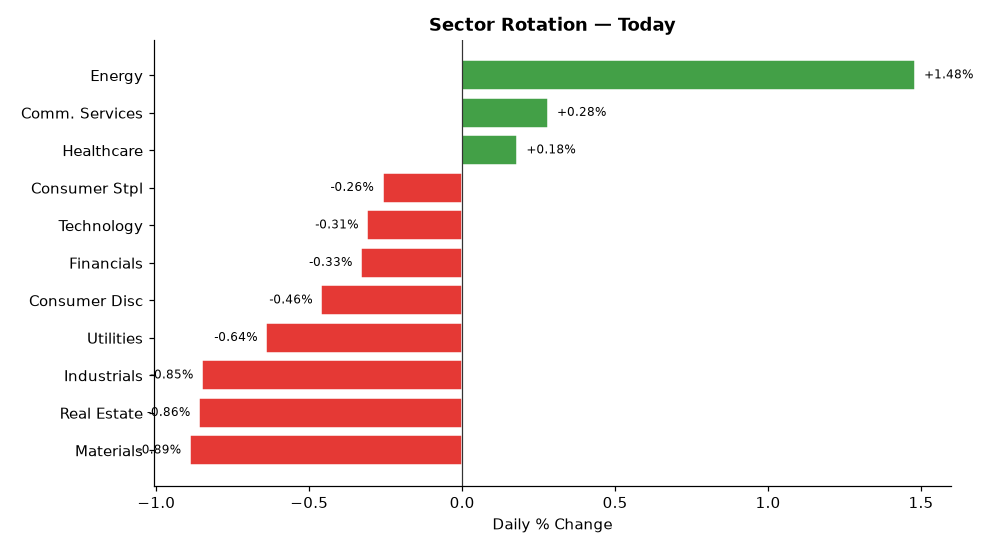
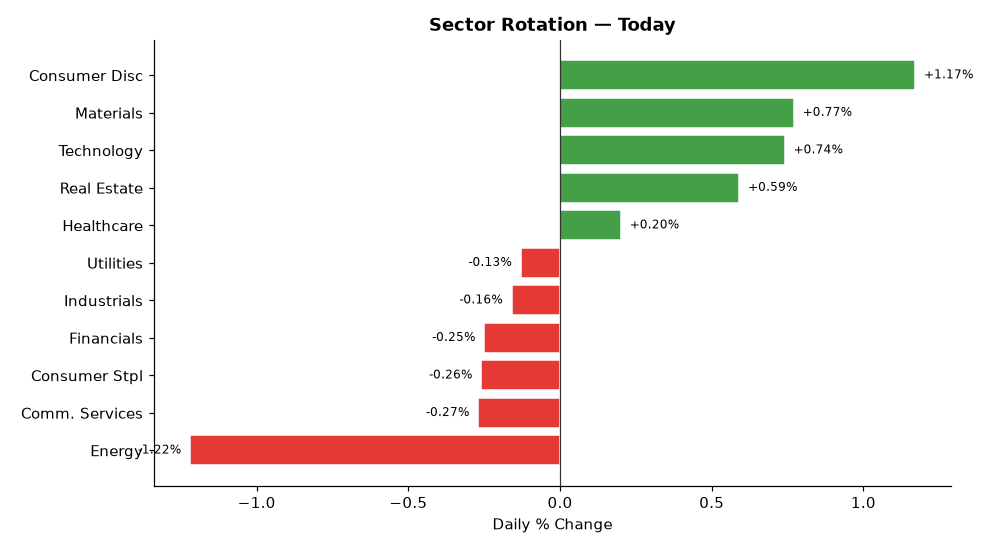
deploy: b7fadf5b06deb90e7ebb92f278722414bdd9750d

diff --git a/index.html b/index.html
@@ -4,7 +4,7 @@
   <meta charset="UTF-8">
   <meta name="viewport" content="width=device-width,initial-scale=1">
   <meta http-equiv="Cache-Control" content="no-cache,no-store,must-revalidate">
-  <title>Stock Breakout Screener — 2026-08-07 02:52</title>
+  <title>Stock Breakout Screener — 2026-08-07 14:09</title>
   <style>
     *{box-sizing:border-box;margin:0;padding:0}
     body{font-family:'Segoe UI',Arial,sans-serif;background:#f0f2f5;
@@ -34,20 +34,20 @@
 
 <div class="hdr">
   <h1>📈 Stock Breakout Screener</h1>
-  <p>Updated: 2026-08-07 02:52 UTC &nbsp;·&nbsp; Phase: Overnight &nbsp;·&nbsp;
+  <p>Updated: 2026-08-07 14:09 UTC &nbsp;·&nbsp; Phase: Regular Market Hours &nbsp;·&nbsp;
      129 stocks screened &nbsp;·&nbsp; Top 5 by conviction score</p>
 </div>
 
 <div class="card">
   <strong style="font-size:14px">Market Sentiment: 🐻 Bearish</strong>
   <div class="bar-wrap" style="margin-top:10px">
-    <div style="width:0%;background:#43a047"></div>
-    <div style="width:8%;background:#fdd835"></div>
+    <div style="width:2%;background:#43a047"></div>
+    <div style="width:6%;background:#fdd835"></div>
     <div style="width:92%;background:#e53935"></div>
   </div>
   <div style="font-size:12px;color:#555">
-    🟢 Strong 0% &nbsp;
-    🟡 Moderate 8% &nbsp;
+    🟢 Strong 2% &nbsp;
+    🟡 Moderate 6% &nbsp;
     🔴 Weak 92%
   </div>
 </div>
@@ -59,34 +59,34 @@
                     box-shadow:0 2px 6px rgba(0,0,0,.07)">
           <div style="display:flex;align-items:center;gap:10px;
                       flex-wrap:wrap;margin-bottom:10px">
-            <span style="font-size:22px">🟡</span>
-            <span style="font-size:19px;font-weight:700">1. BKR</span>
-            <span style="font-size:12px;color:#666">Energy</span>
+            <span style="font-size:22px">🟢</span>
+            <span style="font-size:19px;font-weight:700">1. TJX</span>
+            <span style="font-size:12px;color:#666">Consumer Disc</span>
             <span style="margin-left:auto;background:#1a237e;color:#fff;
                          padding:3px 12px;border-radius:12px;
                          font-size:13px;font-weight:600">
-              11/17
+              12/17
             </span>
           </div>
           <ul style="margin:0;padding-left:18px;font-size:13px;
-                     color:#333;line-height:1.8"><li style="margin:5px 0"><span style="background:#ffebee;color:#b71c1c;padding:2px 7px;border-radius:4px;font-size:11px;">❌</span> Volume: <b>0.5× average</b> — Above-average activity</li><li style="margin:5px 0"><span style="background:#ffebee;color:#b71c1c;padding:2px 7px;border-radius:4px;font-size:11px;">❌</span> Candle: close <b>$62.75</b> vs open <b>$62.49</b> (+0.4%) — regular market close</li><li style="margin:5px 0"><span style="background:#e8f5e9;color:#2e7d32;padding:2px 7px;border-radius:4px;font-size:11px;">✅</span> 200-Day MA: price <b>$62.75</b> vs MA <b>$61.29</b> — <b>✅ Above</b> long-term trend</li><li style="margin:5px 0"><span style="background:#e8f5e9;color:#2e7d32;padding:2px 7px;border-radius:4px;font-size:11px;">✅</span> Inst. ownership: <b>100.2%</b> · MFI: <b>74.7</b> · Market cap: <b>$62.3B</b></li></ul>
+                     color:#333;line-height:1.8"><li style="margin:5px 0"><span style="background:#fffde7;color:#f57f17;padding:2px 7px;border-radius:4px;font-size:11px;">⚠</span> Volume: <b>1.3× average</b> — Above-average activity</li><li style="margin:5px 0"><span style="background:#ffebee;color:#b71c1c;padding:2px 7px;border-radius:4px;font-size:11px;">❌</span> Candle: close <b>$162.06</b> vs open <b>$161.85</b> (+0.1%) — regular market close</li><li style="margin:5px 0"><span style="background:#e8f5e9;color:#2e7d32;padding:2px 7px;border-radius:4px;font-size:11px;">✅</span> 200-Day MA: price <b>$162.06</b> vs MA <b>$156.93</b> — <b>✅ Above</b> long-term trend</li><li style="margin:5px 0"><span style="background:#e8f5e9;color:#2e7d32;padding:2px 7px;border-radius:4px;font-size:11px;">✅</span> Inst. ownership: <b>93.4%</b> · MFI: <b>61.5</b> · Market cap: <b>$177.7B</b></li></ul>
         </div>
         <div style="background:#fff;border:1px solid #ddd;border-radius:10px;
                     padding:16px 20px;margin-bottom:12px;
                     box-shadow:0 2px 6px rgba(0,0,0,.07)">
           <div style="display:flex;align-items:center;gap:10px;
                       flex-wrap:wrap;margin-bottom:10px">
-            <span style="font-size:22px">🟡</span>
-            <span style="font-size:19px;font-weight:700">2. PSX</span>
-            <span style="font-size:12px;color:#666">Energy</span>
+            <span style="font-size:22px">🟢</span>
+            <span style="font-size:19px;font-weight:700">2. EBAY</span>
+            <span style="font-size:12px;color:#666">Consumer Disc</span>
             <span style="margin-left:auto;background:#1a237e;color:#fff;
                          padding:3px 12px;border-radius:12px;
                          font-size:13px;font-weight:600">
-              11/17
+              12/17
             </span>
           </div>
           <ul style="margin:0;padding-left:18px;font-size:13px;
-                     color:#333;line-height:1.8"><li style="margin:5px 0"><span style="background:#ffebee;color:#b71c1c;padding:2px 7px;border-radius:4px;font-size:11px;">❌</span> Volume: <b>0.6× average</b> — Above-average activity</li><li style="margin:5px 0"><span style="background:#ffebee;color:#b71c1c;padding:2px 7px;border-radius:4px;font-size:11px;">❌</span> Candle: close <b>$205.52</b> vs open <b>$208.97</b> (-1.7%) — regular market close</li><li style="margin:5px 0"><span style="background:#e8f5e9;color:#2e7d32;padding:2px 7px;border-radius:4px;font-size:11px;">✅</span> 200-Day MA: price <b>$205.52</b> vs MA <b>$175.53</b> — <b>✅ Above</b> long-term trend</li><li style="margin:5px 0"><span style="background:#e8f5e9;color:#2e7d32;padding:2px 7px;border-radius:4px;font-size:11px;">✅</span> Inst. ownership: <b>80.8%</b> · MFI: <b>62.8</b> · Market cap: <b>$82.4B</b></li></ul>
+                     color:#333;line-height:1.8"><li style="margin:5px 0"><span style="background:#fffde7;color:#f57f17;padding:2px 7px;border-radius:4px;font-size:11px;">⚠</span> Volume: <b>1.4× average</b> — Above-average activity</li><li style="margin:5px 0"><span style="background:#ffebee;color:#b71c1c;padding:2px 7px;border-radius:4px;font-size:11px;">❌</span> Candle: close <b>$110.14</b> vs open <b>$112.00</b> (-1.7%) — regular market close</li><li style="margin:5px 0"><span style="background:#e8f5e9;color:#2e7d32;padding:2px 7px;border-radius:4px;font-size:11px;">✅</span> 200-Day MA: price <b>$110.14</b> vs MA <b>$102.58</b> — <b>✅ Above</b> long-term trend</li><li style="margin:5px 0"><span style="background:#e8f5e9;color:#2e7d32;padding:2px 7px;border-radius:4px;font-size:11px;">✅</span> Inst. ownership: <b>94.5%</b> · MFI: <b>44.8</b> · Market cap: <b>$50.9B</b></li><li style="margin:5px 0"><span style="background:#e8f5e9;color:#2e7d32;padding:2px 7px;border-radius:4px;font-size:11px;">✅</span> Last similar breakout: <b>Apr 30, 2026</b> → <b>+9.4%</b> over 10 trading days</li></ul>
         </div>
         <div style="background:#fff;border:1px solid #ddd;border-radius:10px;
                     padding:16px 20px;margin-bottom:12px;
@@ -99,11 +99,11 @@
             <span style="margin-left:auto;background:#1a237e;color:#fff;
                          padding:3px 12px;border-radius:12px;
                          font-size:13px;font-weight:600">
-              10/17
+              11/17
             </span>
           </div>
           <ul style="margin:0;padding-left:18px;font-size:13px;
-                     color:#333;line-height:1.8"><li style="margin:5px 0"><span style="background:#ffebee;color:#b71c1c;padding:2px 7px;border-radius:4px;font-size:11px;">❌</span> Volume: <b>0.9× average</b> — Above-average activity</li><li style="margin:5px 0"><span style="background:#ffebee;color:#b71c1c;padding:2px 7px;border-radius:4px;font-size:11px;">❌</span> Candle: close <b>$499.86</b> vs open <b>$488.89</b> (+2.2%) — regular market close</li><li style="margin:5px 0"><span style="background:#e8f5e9;color:#2e7d32;padding:2px 7px;border-radius:4px;font-size:11px;">✅</span> 200-Day MA: price <b>$499.86</b> vs MA <b>$402.24</b> — <b>✅ Above</b> long-term trend</li><li style="margin:5px 0"><span style="background:#e8f5e9;color:#2e7d32;padding:2px 7px;border-radius:4px;font-size:11px;">✅</span> Inst. ownership: <b>75.4%</b> · MFI: <b>78.1</b> · Market cap: <b>$3711.7B</b></li><li style="margin:5px 0"><span style="background:#e8f5e9;color:#2e7d32;padding:2px 7px;border-radius:4px;font-size:11px;">✅</span> Last similar breakout: <b>Jul 30, 2026</b> → <b>+10.8%</b> over 10 trading days</li></ul>
+                     color:#333;line-height:1.8"><li style="margin:5px 0"><span style="background:#ffebee;color:#b71c1c;padding:2px 7px;border-radius:4px;font-size:11px;">❌</span> Volume: <b>1.0× average</b> — Above-average activity</li><li style="margin:5px 0"><span style="background:#ffebee;color:#b71c1c;padding:2px 7px;border-radius:4px;font-size:11px;">❌</span> Candle: close <b>$499.86</b> vs open <b>$488.55</b> (+2.3%) — regular market close</li><li style="margin:5px 0"><span style="background:#e8f5e9;color:#2e7d32;padding:2px 7px;border-radius:4px;font-size:11px;">✅</span> 200-Day MA: price <b>$499.86</b> vs MA <b>$403.04</b> — <b>✅ Above</b> long-term trend</li><li style="margin:5px 0"><span style="background:#e8f5e9;color:#2e7d32;padding:2px 7px;border-radius:4px;font-size:11px;">✅</span> Inst. ownership: <b>75.4%</b> · MFI: <b>77.5</b> · Market cap: <b>$3725.1B</b></li><li style="margin:5px 0"><span style="background:#e8f5e9;color:#2e7d32;padding:2px 7px;border-radius:4px;font-size:11px;">✅</span> Last similar breakout: <b>Jul 30, 2026</b> → <b>+11.2%</b> over 10 trading days</li></ul>
         </div>
         <div style="background:#fff;border:1px solid #ddd;border-radius:10px;
                     padding:16px 20px;margin-bottom:12px;
@@ -116,11 +116,11 @@
             <span style="margin-left:auto;background:#1a237e;color:#fff;
                          padding:3px 12px;border-radius:12px;
                          font-size:13px;font-weight:600">
-              10/17
+              11/17
             </span>
           </div>
           <ul style="margin:0;padding-left:18px;font-size:13px;
-                     color:#333;line-height:1.8"><li style="margin:5px 0"><span style="background:#ffebee;color:#b71c1c;padding:2px 7px;border-radius:4px;font-size:11px;">❌</span> Volume: <b>0.7× average</b> — Above-average activity</li><li style="margin:5px 0"><span style="background:#e8f5e9;color:#2e7d32;padding:2px 7px;border-radius:4px;font-size:11px;">✅</span> Candle: close <b>$489.28</b> vs open <b>$471.14</b> (+3.8%) — regular market close</li><li style="margin:5px 0"><span style="background:#e8f5e9;color:#2e7d32;padding:2px 7px;border-radius:4px;font-size:11px;">✅</span> 200-Day MA: price <b>$489.28</b> vs MA <b>$371.45</b> — <b>✅ Above</b> long-term trend</li><li style="margin:5px 0"><span style="background:#e8f5e9;color:#2e7d32;padding:2px 7px;border-radius:4px;font-size:11px;">✅</span> Inst. ownership: <b>71.8%</b> · MFI: <b>44.1</b> · Market cap: <b>N/A</b></li><li style="margin:5px 0"><span style="background:#e8f5e9;color:#2e7d32;padding:2px 7px;border-radius:4px;font-size:11px;">✅</span> Last similar breakout: <b>Apr 24, 2026</b> → <b>+30.9%</b> over 10 trading days</li></ul>
+                     color:#333;line-height:1.8"><li style="margin:5px 0"><span style="background:#ffebee;color:#b71c1c;padding:2px 7px;border-radius:4px;font-size:11px;">❌</span> Volume: <b>0.7× average</b> — Above-average activity</li><li style="margin:5px 0"><span style="background:#e8f5e9;color:#2e7d32;padding:2px 7px;border-radius:4px;font-size:11px;">✅</span> Candle: close <b>$489.28</b> vs open <b>$471.75</b> (+3.7%) — regular market close</li><li style="margin:5px 0"><span style="background:#e8f5e9;color:#2e7d32;padding:2px 7px;border-radius:4px;font-size:11px;">✅</span> 200-Day MA: price <b>$489.28</b> vs MA <b>$372.36</b> — <b>✅ Above</b> long-term trend</li><li style="margin:5px 0"><span style="background:#e8f5e9;color:#2e7d32;padding:2px 7px;border-radius:4px;font-size:11px;">✅</span> Inst. ownership: <b>71.7%</b> · MFI: <b>41.6</b> · Market cap: <b>$791.4B</b></li><li style="margin:5px 0"><span style="background:#e8f5e9;color:#2e7d32;padding:2px 7px;border-radius:4px;font-size:11px;">✅</span> Last similar breakout: <b>Apr 24, 2026</b> → <b>+30.9%</b> over 10 trading days</li></ul>
         </div>
         <div style="background:#fff;border:1px solid #ddd;border-radius:10px;
                     padding:16px 20px;margin-bottom:12px;
@@ -128,16 +128,16 @@
           <div style="display:flex;align-items:center;gap:10px;
                       flex-wrap:wrap;margin-bottom:10px">
             <span style="font-size:22px">🟡</span>
-            <span style="font-size:19px;font-weight:700">5. PH</span>
-            <span style="font-size:12px;color:#666">Industrials</span>
+            <span style="font-size:19px;font-weight:700">5. SBUX</span>
+            <span style="font-size:12px;color:#666">Consumer Disc</span>
             <span style="margin-left:auto;background:#1a237e;color:#fff;
                          padding:3px 12px;border-radius:12px;
                          font-size:13px;font-weight:600">
-              10/17
+              11/17
             </span>
           </div>
           <ul style="margin:0;padding-left:18px;font-size:13px;
-                     color:#333;line-height:1.8"><li style="margin:5px 0"><span style="background:#fffde7;color:#f57f17;padding:2px 7px;border-radius:4px;font-size:11px;">⚠</span> Volume: <b>1.7× average</b> — Above-average activity</li><li style="margin:5px 0"><span style="background:#fffde7;color:#f57f17;padding:2px 7px;border-radius:4px;font-size:11px;">⚠</span> Candle: close <b>$1069.80</b> vs open <b>$1076.00</b> (-0.6%) — regular market close</li><li style="margin:5px 0"><span style="background:#e8f5e9;color:#2e7d32;padding:2px 7px;border-radius:4px;font-size:11px;">✅</span> 200-Day MA: price <b>$1069.80</b> vs MA <b>$937.70</b> — <b>✅ Above</b> long-term trend</li><li style="margin:5px 0"><span style="background:#e8f5e9;color:#2e7d32;padding:2px 7px;border-radius:4px;font-size:11px;">✅</span> Inst. ownership: <b>90.7%</b> · MFI: <b>76.5</b> · Market cap: <b>$134.9B</b></li></ul>
+                     color:#333;line-height:1.8"><li style="margin:5px 0"><span style="background:#ffebee;color:#b71c1c;padding:2px 7px;border-radius:4px;font-size:11px;">❌</span> Volume: <b>0.8× average</b> — Above-average activity</li><li style="margin:5px 0"><span style="background:#ffebee;color:#b71c1c;padding:2px 7px;border-radius:4px;font-size:11px;">❌</span> Candle: close <b>$105.16</b> vs open <b>$106.14</b> (-0.9%) — regular market close</li><li style="margin:5px 0"><span style="background:#e8f5e9;color:#2e7d32;padding:2px 7px;border-radius:4px;font-size:11px;">✅</span> 200-Day MA: price <b>$105.16</b> vs MA <b>$99.89</b> — <b>✅ Above</b> long-term trend</li><li style="margin:5px 0"><span style="background:#e8f5e9;color:#2e7d32;padding:2px 7px;border-radius:4px;font-size:11px;">✅</span> Inst. ownership: <b>86.6%</b> · MFI: <b>57.7</b> · Market cap: <b>$120.1B</b></li><li style="margin:5px 0"><span style="background:#fffde7;color:#f57f17;padding:2px 7px;border-radius:4px;font-size:11px;">⚠</span> Last similar breakout: <b>Apr 29, 2026</b> → <b>+0.4%</b> over 10 trading days</li></ul>
         </div>
 
 
@@ -168,93 +168,93 @@
   
         <tr>
           <td style="font-weight:700;text-align:left;padding-left:10px">
-            🟡 BKR</td>
-          <td style="background:#ffcdd2">0.5×</td>
-          <td style="background:#ffcdd2">+0.4%</td>
+            🟢 TJX</td>
+          <td style="background:#fff9c4">1.3×</td>
+          <td style="background:#ffcdd2">+0.1%</td>
           <td style="background:#c8e6c9">
             ▲ Above</td>
           <td style="background:#c8e6c9">
-            100.2%</td>
+            93.4%</td>
           <td style="background:#c8e6c9">
-            74.7</td>
-          <td style="background:#c8e6c9">Energy</td>
+            61.5</td>
+          <td style="background:#c8e6c9">Consumer Disc</td>
           <td style="background:#c8e6c9">
-            81.2%</td>
+            126.1%</td>
           <td style="background:#ffcdd2">
             N/A</td>
-          <td style="font-weight:800;font-size:15px">11/17</td>
+          <td style="font-weight:800;font-size:15px">12/17</td>
         </tr>
         <tr>
           <td style="font-weight:700;text-align:left;padding-left:10px">
-            🟡 PSX</td>
-          <td style="background:#ffcdd2">0.6×</td>
+            🟢 EBAY</td>
+          <td style="background:#fff9c4">1.4×</td>
           <td style="background:#ffcdd2">-1.7%</td>
           <td style="background:#c8e6c9">
             ▲ Above</td>
           <td style="background:#c8e6c9">
-            80.8%</td>
-          <td style="background:#c8e6c9">
-            62.8</td>
-          <td style="background:#c8e6c9">Energy</td>
-          <td style="background:#c8e6c9">
-            117.2%</td>
+            94.5%</td>
           <td style="background:#ffcdd2">
-            N/A</td>
-          <td style="font-weight:800;font-size:15px">11/17</td>
+            44.8</td>
+          <td style="background:#c8e6c9">Consumer Disc</td>
+          <td style="background:#c8e6c9">
+            54.8%</td>
+          <td style="background:#c8e6c9">
+            +9.4%</td>
+          <td style="font-weight:800;font-size:15px">12/17</td>
         </tr>
         <tr>
           <td style="font-weight:700;text-align:left;padding-left:10px">
             🟡 MSFT</td>
-          <td style="background:#ffcdd2">0.9×</td>
-          <td style="background:#ffcdd2">+2.2%</td>
+          <td style="background:#ffcdd2">1.0×</td>
+          <td style="background:#ffcdd2">+2.3%</td>
           <td style="background:#c8e6c9">
             ▲ Above</td>
           <td style="background:#c8e6c9">
             75.4%</td>
           <td style="background:#c8e6c9">
-            78.1</td>
-          <td style="background:#ffcdd2">Technology</td>
+            77.5</td>
+          <td style="background:#fff9c4">Technology</td>
           <td style="background:#c8e6c9">
-            198.3%</td>
+            279.9%</td>
           <td style="background:#c8e6c9">
-            +10.8%</td>
-          <td style="font-weight:800;font-size:15px">10/17</td>
+            +11.2%</td>
+          <td style="font-weight:800;font-size:15px">11/17</td>
         </tr>
         <tr>
           <td style="font-weight:700;text-align:left;padding-left:10px">
             🟡 AMD</td>
           <td style="background:#ffcdd2">0.7×</td>
-          <td style="background:#c8e6c9">+3.8%</td>
+          <td style="background:#c8e6c9">+3.7%</td>
           <td style="background:#c8e6c9">
             ▲ Above</td>
           <td style="background:#c8e6c9">
-            71.8%</td>
+            71.7%</td>
           <td style="background:#ffcdd2">
-            44.1</td>
-          <td style="background:#ffcdd2">Technology</td>
+            41.6</td>
+          <td style="background:#fff9c4">Technology</td>
           <td style="background:#c8e6c9">
-            330.3%</td>
+            416.9%</td>
           <td style="background:#c8e6c9">
             +30.9%</td>
-          <td style="font-weight:800;font-size:15px">10/17</td>
+          <td style="font-weight:800;font-size:15px">11/17</td>
         </tr>
         <tr>
           <td style="font-weight:700;text-align:left;padding-left:10px">
-            🟡 PH</td>
-          <td style="background:#fff9c4">1.7×</td>
-          <td style="background:#fff9c4">-0.6%</td>
+            🟡 SBUX</td>
+          <td style="background:#ffcdd2">0.8×</td>
+          <td style="background:#ffcdd2">-0.9%</td>
           <td style="background:#c8e6c9">
             ▲ Above</td>
           <td style="background:#c8e6c9">
-            90.7%</td>
+            86.6%</td>
+          <td style="background:#fff9c4">
+            57.7</td>
+          <td style="background:#c8e6c9">Consumer Disc</td>
           <td style="background:#c8e6c9">
-            76.5</td>
-          <td style="background:#ffcdd2">Industrials</td>
-          <td style="background:#c8e6c9">
-            42.2%</td>
-          <td style="background:#ffcdd2">
-            N/A</td>
-          <td style="font-weight:800;font-size:15px">10/17</td>
+            151.4%</td>
+          <td style="background:#fff9c4">
+            +0.4%</td>
+          <td style="font-weight:800;font-size:15px">11/17</td>
         </tr>
 </table>
 </div>
@@ -277,58 +277,58 @@
       
         <tr>
           <td style="text-align:left;padding-left:10px;font-weight:600">
-            #1 Energy</td>
-          <td style="background:#e8f5e9;color:#2e7d32;font-weight:700">+1.48%</td>
+            #1 Consumer Disc</td>
+          <td style="background:#e8f5e9;color:#2e7d32;font-weight:700">+1.17%</td>
         </tr>
         <tr>
           <td style="text-align:left;padding-left:10px;font-weight:600">
-            #2 Comm. Services</td>
-          <td style="background:#e8f5e9;color:#2e7d32;font-weight:700">+0.28%</td>
+            #2 Materials</td>
+          <td style="background:#e8f5e9;color:#2e7d32;font-weight:700">+0.77%</td>
         </tr>
         <tr>
           <td style="text-align:left;padding-left:10px;font-weight:600">
-            #3 Healthcare</td>
-          <td style="background:#e8f5e9;color:#2e7d32;font-weight:700">+0.18%</td>
+            #3 Technology</td>
+          <td style="background:#e8f5e9;color:#2e7d32;font-weight:700">+0.74%</td>
         </tr>
         <tr>
           <td style="text-align:left;padding-left:10px;font-weight:600">
-            #4 Consumer Stpl</td>
+            #4 Real Estate</td>
+          <td style="background:#e8f5e9;color:#2e7d32;font-weight:700">+0.59%</td>
+        </tr>
+        <tr>
+          <td style="text-align:left;padding-left:10px;font-weight:600">
+            #5 Healthcare</td>
+          <td style="background:#e8f5e9;color:#2e7d32;font-weight:700">+0.20%</td>
+        </tr>
+        <tr>
+          <td style="text-align:left;padding-left:10px;font-weight:600">
+            #6 Utilities</td>
+          <td style="background:#ffebee;color:#c62828;font-weight:700">-0.13%</td>
+        </tr>
+        <tr>
+          <td style="text-align:left;padding-left:10px;font-weight:600">
+            #7 Industrials</td>
+          <td style="background:#ffebee;color:#c62828;font-weight:700">-0.16%</td>
+        </tr>
+        <tr>
+          <td style="text-align:left;padding-left:10px;font-weight:600">
+            #8 Financials</td>
+          <td style="background:#ffebee;color:#c62828;font-weight:700">-0.25%</td>
+        </tr>
+        <tr>
+          <td style="text-align:left;padding-left:10px;font-weight:600">
+            #9 Consumer Stpl</td>
           <td style="background:#ffebee;color:#c62828;font-weight:700">-0.26%</td>
         </tr>
         <tr>
           <td style="text-align:left;padding-left:10px;font-weight:600">
-            #5 Technology</td>
-          <td style="background:#ffebee;color:#c62828;font-weight:700">-0.31%</td>
+            #10 Comm. Services</td>
+          <td style="background:#ffebee;color:#c62828;font-weight:700">-0.27%</td>
         </tr>
         <tr>
           <td style="text-align:left;padding-left:10px;font-weight:600">
-            #6 Financials</td>
-          <td style="background:#ffebee;color:#c62828;font-weight:700">-0.33%</td>
-        </tr>
-        <tr>
-          <td style="text-align:left;padding-left:10px;font-weight:600">
-            #7 Consumer Disc</td>
-          <td style="background:#ffebee;color:#c62828;font-weight:700">-0.46%</td>
-        </tr>
-        <tr>
-          <td style="text-align:left;padding-left:10px;font-weight:600">
-            #8 Utilities</td>
-          <td style="background:#ffebee;color:#c62828;font-weight:700">-0.64%</td>
-        </tr>
-        <tr>
-          <td style="text-align:left;padding-left:10px;font-weight:600">
-            #9 Industrials</td>
-          <td style="background:#ffebee;color:#c62828;font-weight:700">-0.85%</td>
-        </tr>
-        <tr>
-          <td style="text-align:left;padding-left:10px;font-weight:600">
-            #10 Real Estate</td>
-          <td style="background:#ffebee;color:#c62828;font-weight:700">-0.86%</td>
-        </tr>
-        <tr>
-          <td style="text-align:left;padding-left:10px;font-weight:600">
-            #11 Materials</td>
-          <td style="background:#ffebee;color:#c62828;font-weight:700">-0.89%</td>
+            #11 Energy</td>
+          <td style="background:#ffebee;color:#c62828;font-weight:700">-1.22%</td>
         </tr>
     </table>
   </div>
@@ -367,7 +367,7 @@
         <li><b>Scoring weights:</b>
             Inst.Own(3) · Sector(3) · Volume(2) · Breakout(2) ·
             MA200(2) · MFI(2) · History(2) · IV(1) = 17pts max</li>
-        <li><b>Run time:</b> 2026-08-07 02:52 UTC — Market phase: Overnight</li>
+        <li><b>Run time:</b> 2026-08-07 14:09 UTC — Market phase: Regular Market Hours</li>
       </ul>
     </div>
 
